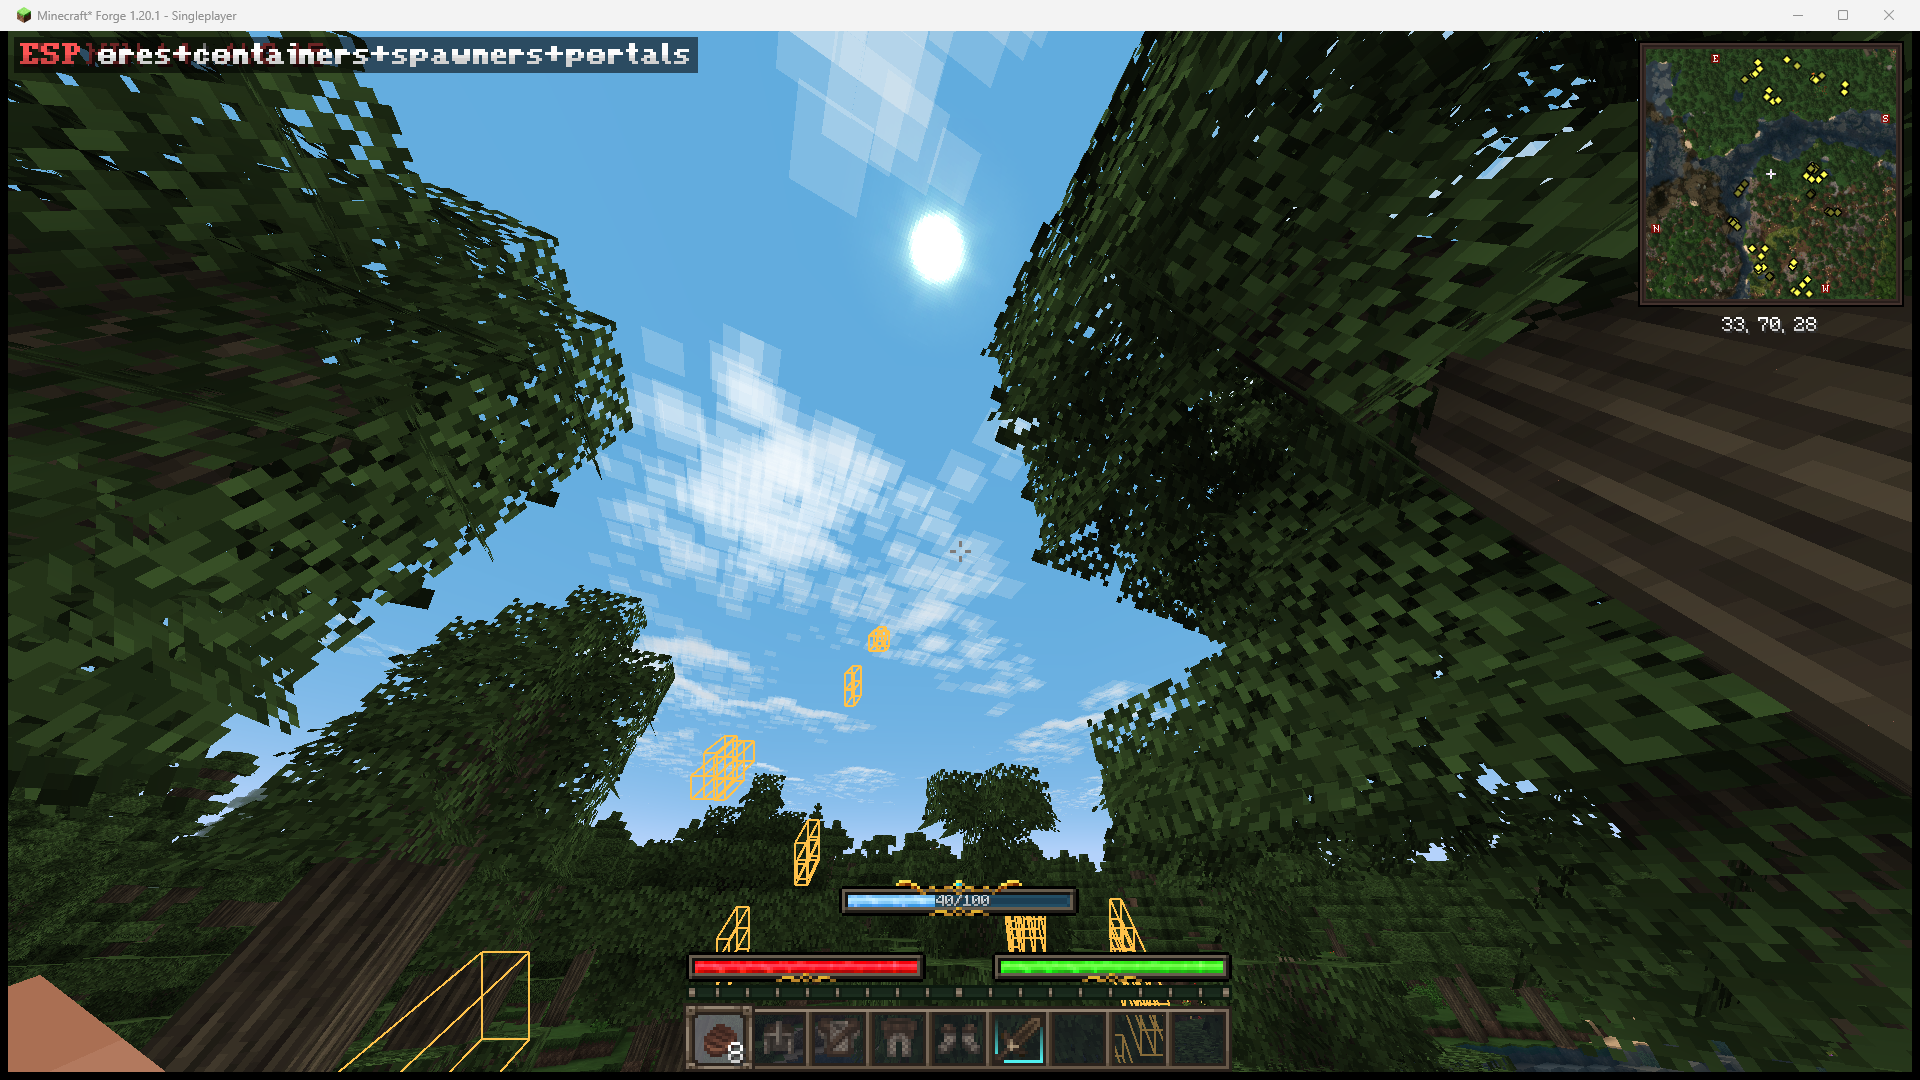
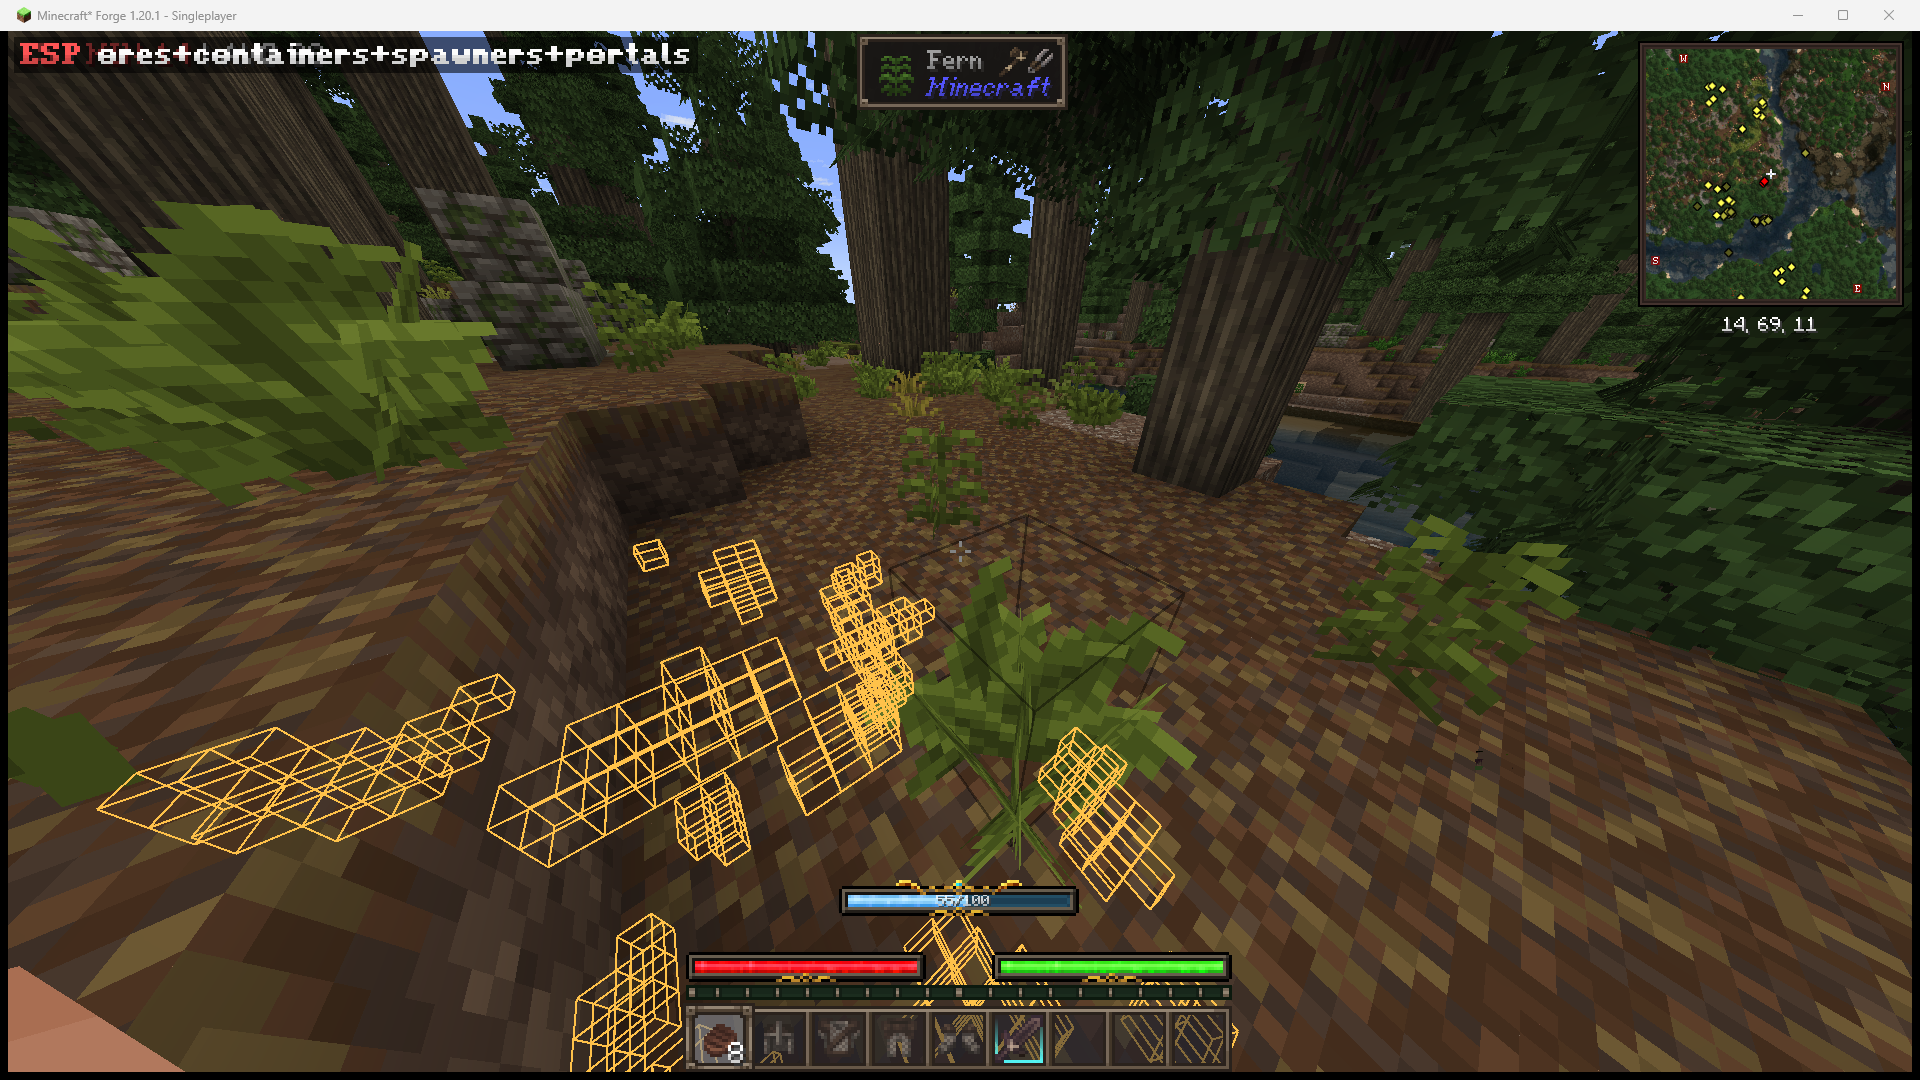
fix(esp): draw boxes in AFTER_TRANSLUCENT_BLOCKS so they stick to the world
AFTER_LEVEL runs after LevelRenderer restored an identity model-view, so the boxes were
rendered in camera space: they floated in the sky and followed the player instead of
sitting on ore blocks. Moving the draw into the translucent-blocks stage keeps the camera
matrix active. Verified with a debug box around the crosshair block (centroid 948,488 vs
screen centre 960,540).

diff --git a/src/main/java/com/bdtg/xrayplus/client/XrayEspRenderer.java b/src/main/java/com/bdtg/xrayplus/client/XrayEspRenderer.java
@@ -183,7 +183,10 @@ public final class XrayEspRenderer {
 
     @SubscribeEvent
     public static void onRenderLevelStage(RenderLevelStageEvent event) {
-        if (event.getStage() != RenderLevelStageEvent.Stage.AFTER_LEVEL || !XrayState.isActive()) {
+        // AFTER_TRANSLUCENT_BLOCKS is still inside LevelRenderer's render pass, so the shader's
+        // model-view matrix is the camera one. Drawing at AFTER_LEVEL leaves an identity model-view
+        // and the boxes end up glued to the camera (they appear to follow the player).
+        if (event.getStage() != RenderLevelStageEvent.Stage.AFTER_TRANSLUCENT_BLOCKS || !XrayState.isActive()) {
             return;
         }
         List<Box> outline = silhouettes;
